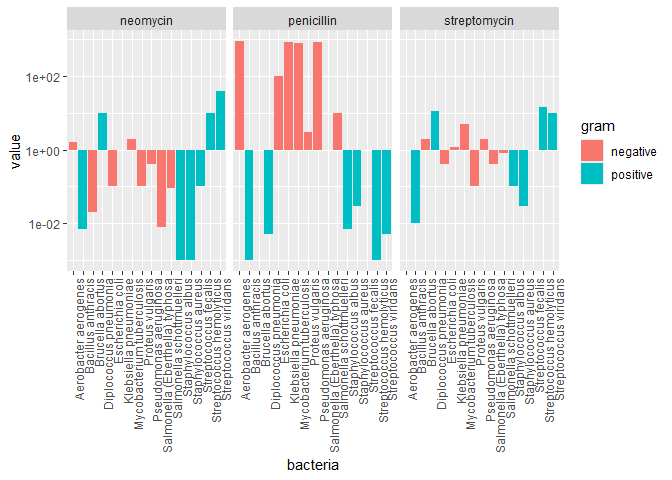
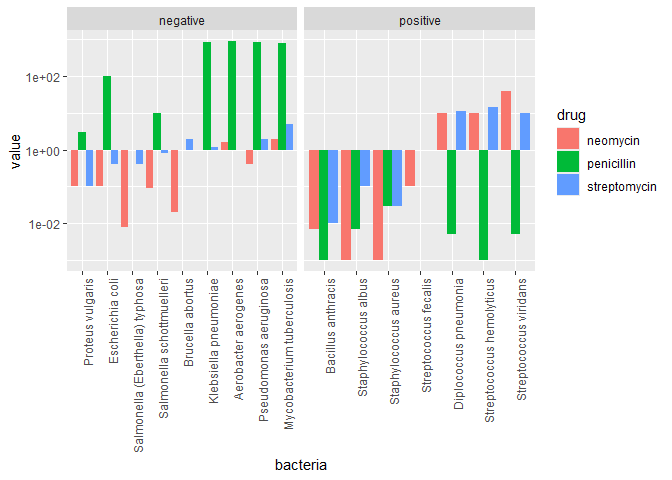
Finished Challenge 5 Revisions

diff --git a/challenges/c05-antibiotics-assignment.md b/challenges/c05-antibiotics-assignment.md
@@ -1,12 +1,7 @@
----
-editor_options: 
-  markdown: 
-    wrap: 72
----
-
-# Antibiotics
-
-Michaela Fox 2025-03-04
+Antibiotics
+================
+Michaela Fox
+2025-03-04
 
 *Purpose*: Creating effective data visualizations is an *iterative*
 process; very rarely will the first graph you make be the most
@@ -62,24 +57,22 @@ all files uploaded to GitHub.**
 library(tidyverse)
 ```
 
-```         
-## ── Attaching core tidyverse packages ──────────────────────── tidyverse 2.0.0 ──
-## ✔ dplyr     1.1.4     ✔ readr     2.1.5
-## ✔ forcats   1.0.0     ✔ stringr   1.5.1
-## ✔ ggplot2   3.5.1     ✔ tibble    3.2.1
-## ✔ lubridate 1.9.4     ✔ tidyr     1.3.1
-## ✔ purrr     1.0.2     
-## ── Conflicts ────────────────────────────────────────── tidyverse_conflicts() ──
-## ✖ dplyr::filter() masks stats::filter()
-## ✖ dplyr::lag()    masks stats::lag()
-## ℹ Use the conflicted package (<http://conflicted.r-lib.org/>) to force all conflicts to become errors
-```
+    ## ── Attaching core tidyverse packages ──────────────────────── tidyverse 2.0.0 ──
+    ## ✔ dplyr     1.1.4     ✔ readr     2.1.5
+    ## ✔ forcats   1.0.0     ✔ stringr   1.5.1
+    ## ✔ ggplot2   3.5.1     ✔ tibble    3.2.1
+    ## ✔ lubridate 1.9.4     ✔ tidyr     1.3.1
+    ## ✔ purrr     1.0.2     
+    ## ── Conflicts ────────────────────────────────────────── tidyverse_conflicts() ──
+    ## ✖ dplyr::filter() masks stats::filter()
+    ## ✖ dplyr::lag()    masks stats::lag()
+    ## ℹ Use the conflicted package (<http://conflicted.r-lib.org/>) to force all conflicts to become errors
 
 ``` r
 library(ggrepel)
 ```
 
-*Background*: The data$$1$$ we study in this challenge report the
+*Background*: The data\[1\] we study in this challenge report the
 [*minimum inhibitory
 concentration*](https://en.wikipedia.org/wiki/Minimum_inhibitory_concentration)
 (MIC) of three drugs for different bacteria. The smaller the MIC for a
@@ -101,16 +94,14 @@ filename <- "./data/antibiotics.csv"
 df_antibiotics <- read_csv(filename)
 ```
 
-```         
-## Rows: 16 Columns: 5
-## ── Column specification ────────────────────────────────────────────────────────
-## Delimiter: ","
-## chr (2): bacteria, gram
-## dbl (3): penicillin, streptomycin, neomycin
-## 
-## ℹ Use `spec()` to retrieve the full column specification for this data.
-## ℹ Specify the column types or set `show_col_types = FALSE` to quiet this message.
-```
+    ## Rows: 16 Columns: 5
+    ## ── Column specification ────────────────────────────────────────────────────────
+    ## Delimiter: ","
+    ## chr (2): bacteria, gram
+    ## dbl (3): penicillin, streptomycin, neomycin
+    ## 
+    ## ℹ Use `spec()` to retrieve the full column specification for this data.
+    ## ℹ Specify the column types or set `show_col_types = FALSE` to quiet this message.
 
 ``` r
 df_antibiotics %>% knitr::kable()
@@ -139,15 +130,13 @@ df_antibiotics %>% knitr::kable()
 glimpse(df_antibiotics)
 ```
 
-```         
-## Rows: 16
-## Columns: 5
-## $ bacteria     <chr> "Aerobacter aerogenes", "Brucella abortus", "Bacillus ant…
-## $ penicillin   <dbl> 870.000, 1.000, 0.001, 0.005, 100.000, 850.000, 800.000, …
-## $ streptomycin <dbl> 1.00, 2.00, 0.01, 11.00, 0.40, 1.20, 5.00, 0.10, 2.00, 0.…
-## $ neomycin     <dbl> 1.600, 0.020, 0.007, 10.000, 0.100, 1.000, 2.000, 0.100, …
-## $ gram         <chr> "negative", "negative", "positive", "positive", "negative…
-```
+    ## Rows: 16
+    ## Columns: 5
+    ## $ bacteria     <chr> "Aerobacter aerogenes", "Brucella abortus", "Bacillus ant…
+    ## $ penicillin   <dbl> 870.000, 1.000, 0.001, 0.005, 100.000, 850.000, 800.000, …
+    ## $ streptomycin <dbl> 1.00, 2.00, 0.01, 11.00, 0.40, 1.20, 5.00, 0.10, 2.00, 0.…
+    ## $ neomycin     <dbl> 1.600, 0.020, 0.007, 10.000, 0.100, 1.000, 2.000, 0.100, …
+    ## $ gram         <chr> "negative", "negative", "positive", "positive", "negative…
 
 # Visualization
 
@@ -175,42 +164,38 @@ construct.
 glimpse(df_antibiotics)
 ```
 
-```         
-## Rows: 16
-## Columns: 5
-## $ bacteria     <chr> "Aerobacter aerogenes", "Brucella abortus", "Bacillus ant…
-## $ penicillin   <dbl> 870.000, 1.000, 0.001, 0.005, 100.000, 850.000, 800.000, …
-## $ streptomycin <dbl> 1.00, 2.00, 0.01, 11.00, 0.40, 1.20, 5.00, 0.10, 2.00, 0.…
-## $ neomycin     <dbl> 1.600, 0.020, 0.007, 10.000, 0.100, 1.000, 2.000, 0.100, …
-## $ gram         <chr> "negative", "negative", "positive", "positive", "negative…
-```
+    ## Rows: 16
+    ## Columns: 5
+    ## $ bacteria     <chr> "Aerobacter aerogenes", "Brucella abortus", "Bacillus ant…
+    ## $ penicillin   <dbl> 870.000, 1.000, 0.001, 0.005, 100.000, 850.000, 800.000, …
+    ## $ streptomycin <dbl> 1.00, 2.00, 0.01, 11.00, 0.40, 1.20, 5.00, 0.10, 2.00, 0.…
+    ## $ neomycin     <dbl> 1.600, 0.020, 0.007, 10.000, 0.100, 1.000, 2.000, 0.100, …
+    ## $ gram         <chr> "negative", "negative", "positive", "positive", "negative…
 
 ``` r
 df_antibiotics%>%
 head(16)
 ```
 
-```         
-## # A tibble: 16 × 5
-##    bacteria                        penicillin streptomycin neomycin gram    
-##    <chr>                                <dbl>        <dbl>    <dbl> <chr>   
-##  1 Aerobacter aerogenes               870             1       1.6   negative
-##  2 Brucella abortus                     1             2       0.02  negative
-##  3 Bacillus anthracis                   0.001         0.01    0.007 positive
-##  4 Diplococcus pneumonia                0.005        11      10     positive
-##  5 Escherichia coli                   100             0.4     0.1   negative
-##  6 Klebsiella pneumoniae              850             1.2     1     negative
-##  7 Mycobacterium tuberculosis         800             5       2     negative
-##  8 Proteus vulgaris                     3             0.1     0.1   negative
-##  9 Pseudomonas aeruginosa             850             2       0.4   negative
-## 10 Salmonella (Eberthella) typhosa      1             0.4     0.008 negative
-## 11 Salmonella schottmuelleri           10             0.8     0.09  negative
-## 12 Staphylococcus albus                 0.007         0.1     0.001 positive
-## 13 Staphylococcus aureus                0.03          0.03    0.001 positive
-## 14 Streptococcus fecalis                1             1       0.1   positive
-## 15 Streptococcus hemolyticus            0.001        14      10     positive
-## 16 Streptococcus viridans               0.005        10      40     positive
-```
+    ## # A tibble: 16 × 5
+    ##    bacteria                        penicillin streptomycin neomycin gram    
+    ##    <chr>                                <dbl>        <dbl>    <dbl> <chr>   
+    ##  1 Aerobacter aerogenes               870             1       1.6   negative
+    ##  2 Brucella abortus                     1             2       0.02  negative
+    ##  3 Bacillus anthracis                   0.001         0.01    0.007 positive
+    ##  4 Diplococcus pneumonia                0.005        11      10     positive
+    ##  5 Escherichia coli                   100             0.4     0.1   negative
+    ##  6 Klebsiella pneumoniae              850             1.2     1     negative
+    ##  7 Mycobacterium tuberculosis         800             5       2     negative
+    ##  8 Proteus vulgaris                     3             0.1     0.1   negative
+    ##  9 Pseudomonas aeruginosa             850             2       0.4   negative
+    ## 10 Salmonella (Eberthella) typhosa      1             0.4     0.008 negative
+    ## 11 Salmonella schottmuelleri           10             0.8     0.09  negative
+    ## 12 Staphylococcus albus                 0.007         0.1     0.001 positive
+    ## 13 Staphylococcus aureus                0.03          0.03    0.001 positive
+    ## 14 Streptococcus fecalis                1             1       0.1   positive
+    ## 15 Streptococcus hemolyticus            0.001        14      10     positive
+    ## 16 Streptococcus viridans               0.005        10      40     positive
 
 #### Visual 1 (All variables)
 
@@ -221,11 +206,12 @@ is Gram positive or negative.
 
 ``` r
 df_antibiotics %>%
-  pivot_longer(cols = -c(bacteria, gram), names_to = "drug", values_to = "value") %>%
-  ggplot(aes(x = bacteria, y = value, fill = gram)) +
-  geom_col() +
-  facet_wrap(~drug) +
-   theme(axis.text.x = element_text(angle = 90, hjust = 1)) +
+  pivot_longer(cols = -c(bacteria, gram), names_to = "drug", values_to = "value")%>%
+  mutate(bacteria = fct_reorder(bacteria, value)) %>% #Reorder bacteria by MIC
+  ggplot(aes(x = bacteria, y = value, fill = drug)) +
+  geom_col(position = "dodge") +
+  facet_wrap(~gram, scales = "free_x") +
+  theme(axis.text.x = element_text(angle = 90, hjust = 1)) +
   scale_y_log10()
 ```
 
@@ -244,12 +230,12 @@ your other visuals.
 ``` r
 df_antibiotics %>%
   pivot_longer(cols = -c(bacteria, gram), names_to = "drug", values_to = "value") %>%
-  mutate(effectiveness = value <= 0.1) %>%  # Define effectiveness
-  ggplot(aes(x = bacteria, y = drug, color = effectiveness, shape = gram)) +
+  mutate(bacteria = fct_reorder(bacteria, value)) %>% #Reorder bacteria by MIC
+  ggplot(aes(x = bacteria, y = drug, color = log10(value), shape = gram)) +
   geom_point(size = 4) +  
-  scale_color_manual(values = c("red", "blue"), labels = c("Not Effective", "Effective")) +
+  scale_color_gradient(low = "blue", high = "red", name = "MIC Value") +
   theme(axis.text.x = element_text(angle = 90, hjust = 1)) +
-  labs(x = "Bacteria", y = "Drug", color = "Effectiveness", shape = "Gram Stain")
+  labs(x = "Bacteria", y = "Drug", color = "MIC", shape = "Gram Stain")
 ```
 
 ![](c05-antibiotics-assignment_files/figure-gfm/q1.2-1.png)<!-- -->
@@ -266,8 +252,10 @@ your other visuals.
 ``` r
 df_antibiotics %>% 
   pivot_longer(cols = penicillin, names_to = "antibiotic", values_to = "MIC") %>%
-  ggplot(aes(x = gram, y = bacteria, fill = log10(MIC))) +
+  mutate(bacteria = fct_reorder(bacteria, MIC)) %>% #Reorder bacteria by MIC
+  ggplot(aes(x = antibiotic, y = bacteria, fill = log10(MIC))) +
   geom_tile() +
+  facet_grid(gram~., scales = "free_y") +
   scale_fill_gradient(low = "blue", high = "red") +
    theme(axis.text.x = element_text(angle = 45, hjust = 1)) +
   labs(title = "Heatmap of Log-Scaled Penicillin MIC by Bacteria and Gram Stain")
@@ -288,6 +276,7 @@ your other visuals.
 df_antibiotics %>%
   pivot_longer(cols = c(penicillin, streptomycin, neomycin), 
                names_to = "antibiotic", values_to = "MIC") %>%
+  mutate(bacteria = fct_reorder(bacteria, MIC)) %>% #Reorder bacteria by MIC
 ggplot(aes(x = antibiotic, y = MIC, fill = antibiotic)) +
   geom_boxplot() +
   scale_y_log10() 
@@ -307,6 +296,7 @@ your other visuals.
 ``` r
 df_antibiotics %>% 
   pivot_longer(cols = streptomycin, names_to = "antibiotic", values_to = "MIC") %>%
+  mutate(bacteria = fct_reorder(bacteria, MIC)) %>% #Reorder bacteria by MIC
   ggplot(aes(x = bacteria, y = MIC, color = gram)) +
   geom_point(position = position_dodge(width = 0.5)) +
   theme(axis.text.x = element_text(angle = 90, hjust = 1)) +
@@ -336,15 +326,14 @@ opportunity to think about why this is.**
 
 *Observations* - What is your response to the question above? -
 
--   Penicillin tends to be less effective on negative gram stains and is
-    most effective on the genera Bacillus, Diplococcus, and
-    Staphylococcus.
--   Neomycin tends to be equally effective on both gram stains and is
-    most effective on the genera Brucella, Bacillus, Escherichia,
-    Proteus, Salmonella, and Staphylococcus.
--   Streptomycin tends to be less effective on negative gram stains and
-    is most effective on the genera Bacillus, Proteus, and
-    Staphylococcus.
+- Penicillin tends to be less effective on negative gram stains and is
+  most effective on the genera Bacillus, Diplococcus, and
+  Staphylococcus.
+- Neomycin tends to be equally effective on both gram stains and is most
+  effective on the genera Brucella, Bacillus, Escherichia, Proteus,
+  Salmonella, and Staphylococcus.
+- Streptomycin tends to be less effective on negative gram stains and is
+  most effective on the genera Bacillus, Proteus, and Staphylococcus.
 
 \- Which of your visuals above (1 through 5) is **most effective** at
 helping to answer this question?
@@ -361,7 +350,7 @@ to be easily compared.
 
 In 1974 *Diplococcus pneumoniae* was renamed *Streptococcus pneumoniae*,
 and in 1984 *Streptococcus fecalis* was renamed *Enterococcus fecalis*
-$$2$$.
+\[2\].
 
 > Why was *Diplococcus pneumoniae* was renamed *Streptococcus
 > pneumoniae*?
@@ -372,23 +361,23 @@ $$2$$.
 Streptococcus viridans, it is a bacteria of a positive gram stain that
 is only weak to Penicillin.
 
--   Which of your visuals above (1 through 5) is **most effective** at
-    helping to answer this question?
+- Which of your visuals above (1 through 5) is **most effective** at
+  helping to answer this question?
 
-    \- My second visual
+  \- My second visual
 
--   Why?
+- Why?
 
-    \- Seeing the different bacteria effectiveness values next to each
-    other allows for easy comparison, making similarities in bacteria
-    more evident.
+  \- Seeing the different bacteria effectiveness values next to each
+  other allows for easy comparison, making similarities in bacteria more
+  evident.
 
 # References
 
 <!-- -------------------------------------------------- -->
 
-$$1$$ Neomycin in skin infections: A new topical antibiotic with wide
+\[1\] Neomycin in skin infections: A new topical antibiotic with wide
 antibacterial range and rarely sensitizing. Scope. 1951;3(5):4-7.
 
-$$2$$ Wainer and Lysen, “That’s Funny…” *American Scientist* (2009)
+\[2\] Wainer and Lysen, “That’s Funny…” *American Scientist* (2009)
 [link](https://www.americanscientist.org/article/thats-funny)
